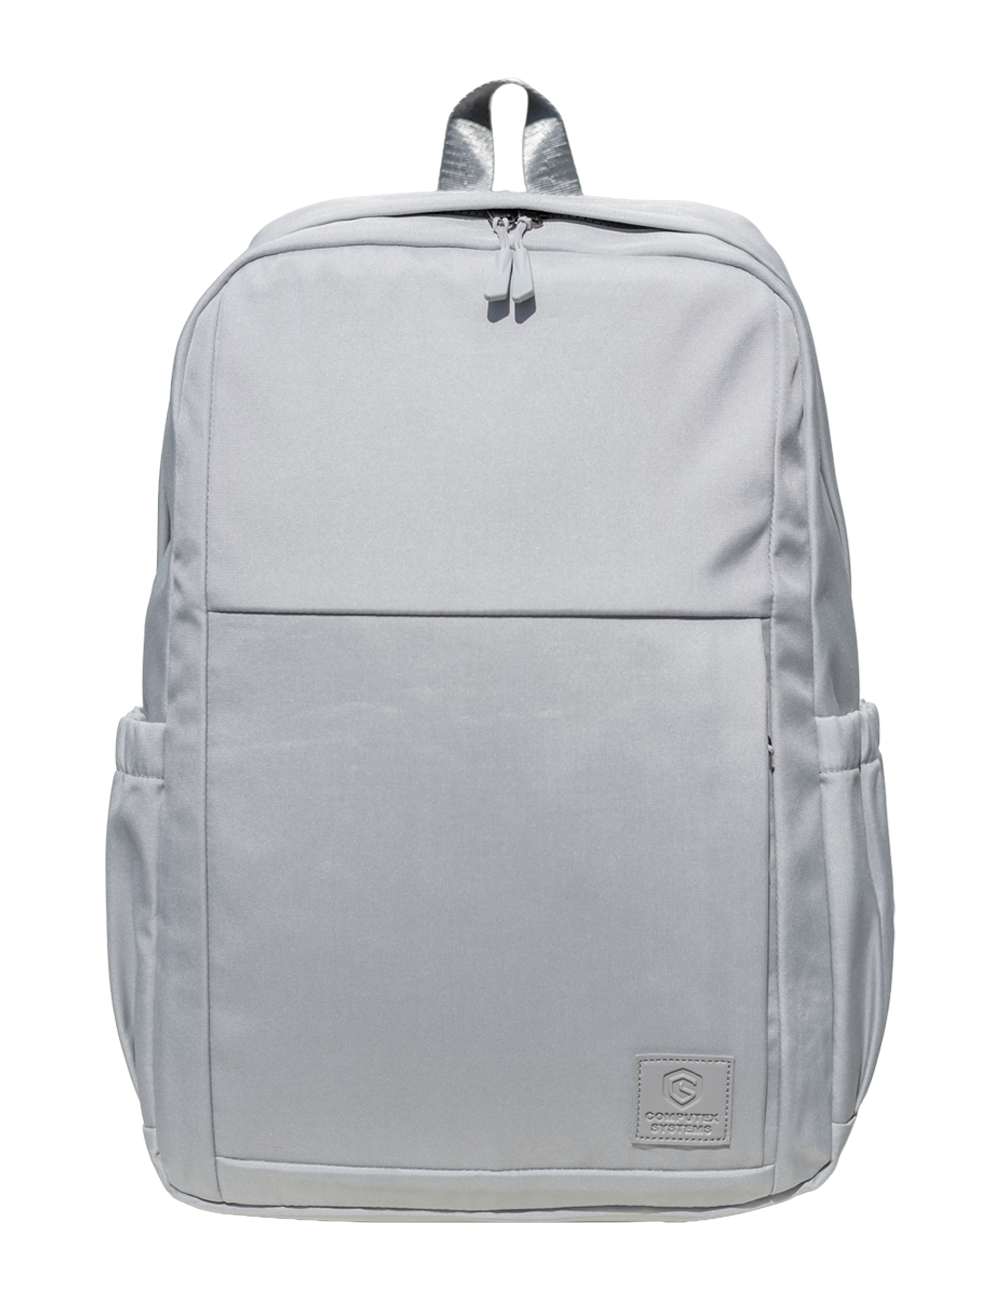
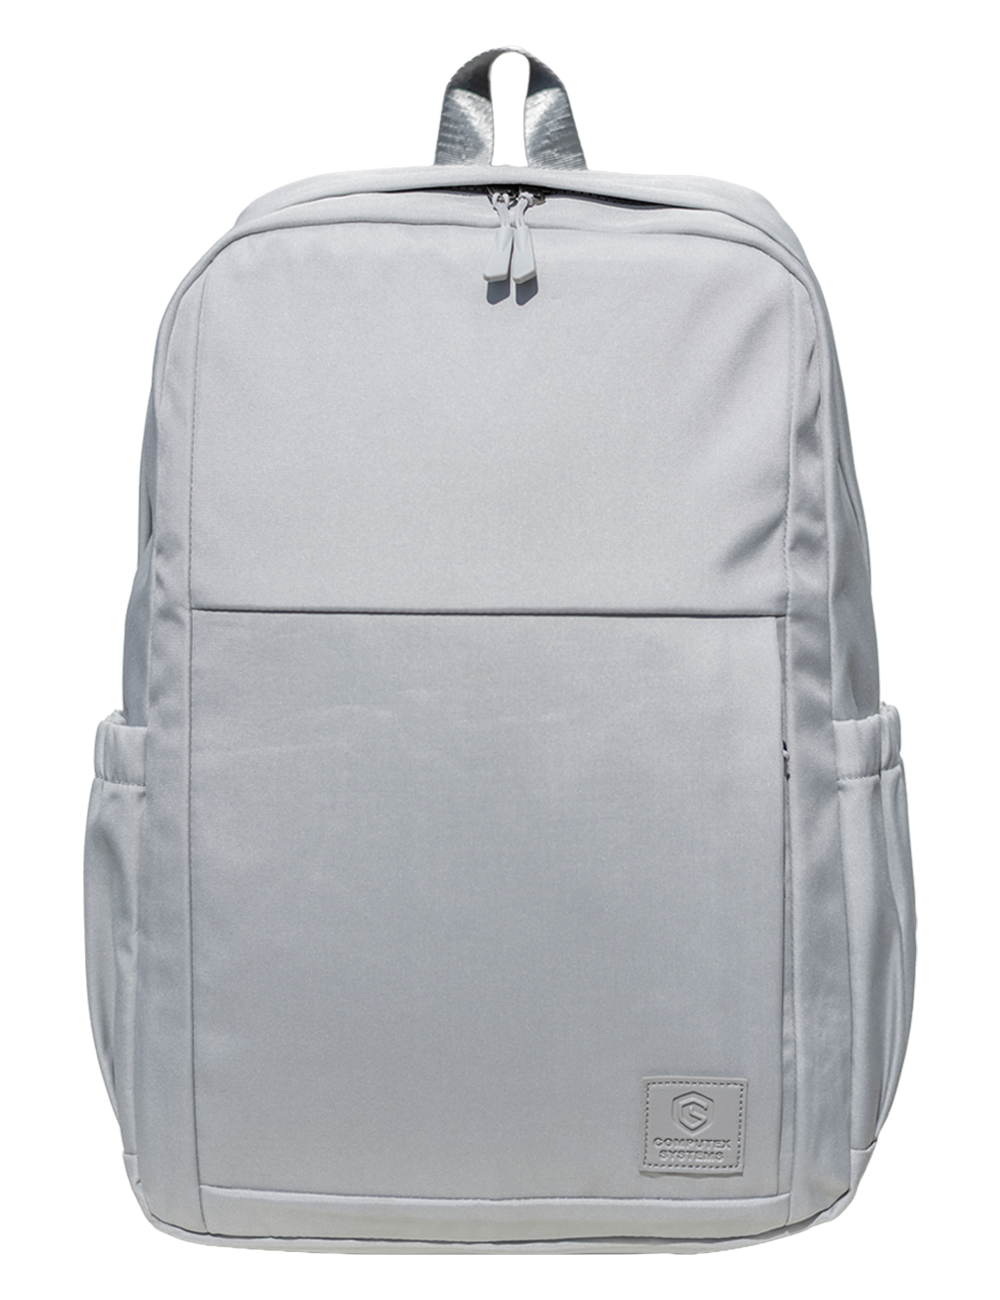
feat: height labels under each figure + refreshed 16" gallery photos
Visualizer shows '175 cm / 5'9"' and '165 cm / 5'5"' beneath the man and
woman silhouettes so the size cue is legible without a separate caption.
Also picks up new 16" gallery exports.

Changed region(s): [[0.062, 0.0308, 0.93, 0.9846]]

diff --git a/src/components/SizeVisualizer.tsx b/src/components/SizeVisualizer.tsx
@@ -89,6 +89,12 @@ export default function SizeVisualizer({ selectedBag }: Props) {
           position: "relative",
           width: "100%",
           maxWidth: 620,
+        }}
+      >
+      <div
+        style={{
+          position: "relative",
+          width: "100%",
           aspectRatio: `${IMG_W} / ${IMG_H}`,
         }}
       >
@@ -149,6 +155,48 @@ export default function SizeVisualizer({ selectedBag }: Props) {
             </div>
           );
         })}
+      </div>
+
+      <div
+        style={{
+          position: "relative",
+          height: 36,
+          marginTop: 4,
+        }}
+      >
+        {[
+          { x: 36.75, cm: 175, ftIn: `5'9"` },
+          { x: 65.25, cm: 165, ftIn: `5'5"` },
+        ].map((h) => (
+          <div
+            key={h.cm}
+            style={{
+              position: "absolute",
+              left: `${h.x}%`,
+              top: 0,
+              transform: "translateX(-50%)",
+              textAlign: "center",
+              color: "rgba(255,255,255,0.78)",
+              fontSize: 12,
+              fontWeight: 600,
+              letterSpacing: 0.6,
+              whiteSpace: "nowrap",
+            }}
+          >
+            <div>{h.cm} cm</div>
+            <div
+              style={{
+                fontSize: 10,
+                fontWeight: 500,
+                color: "rgba(255,255,255,0.5)",
+                marginTop: 1,
+              }}
+            >
+              {h.ftIn}
+            </div>
+          </div>
+        ))}
+      </div>
       </div>
 
       {tuneMode && (
